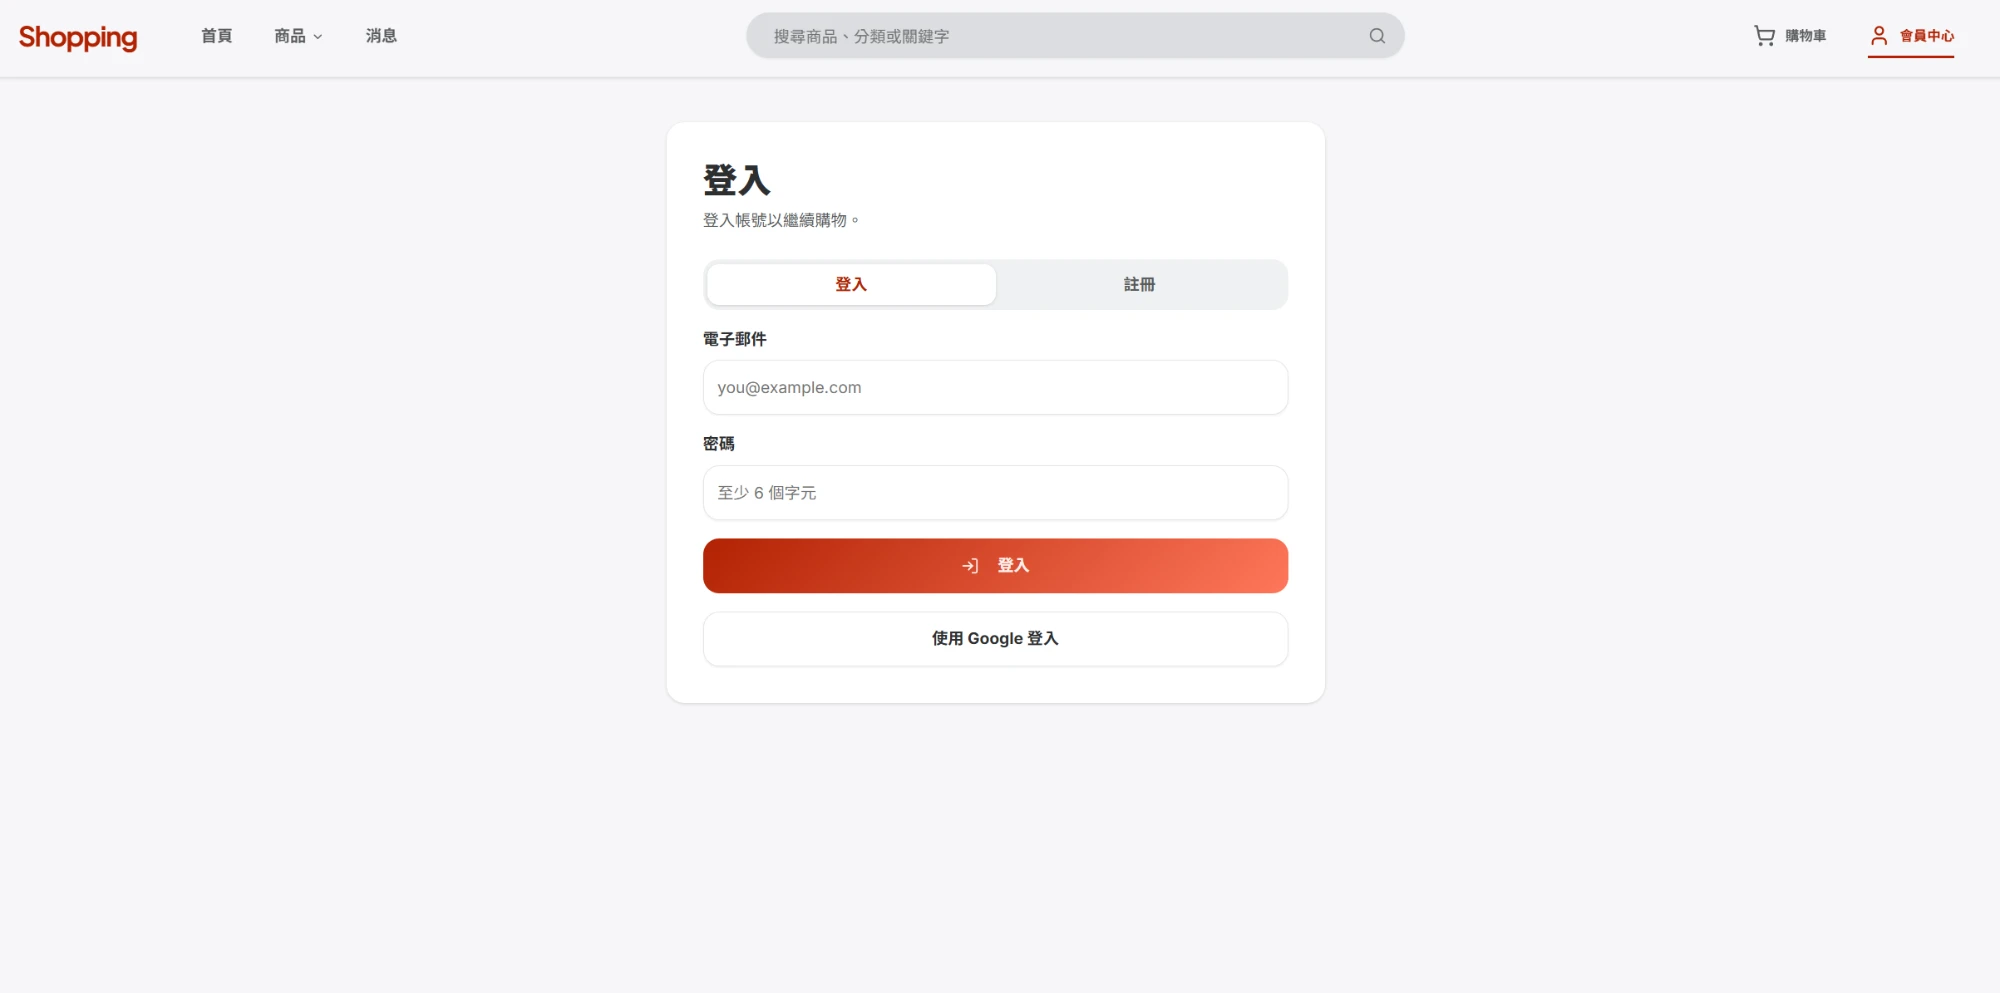
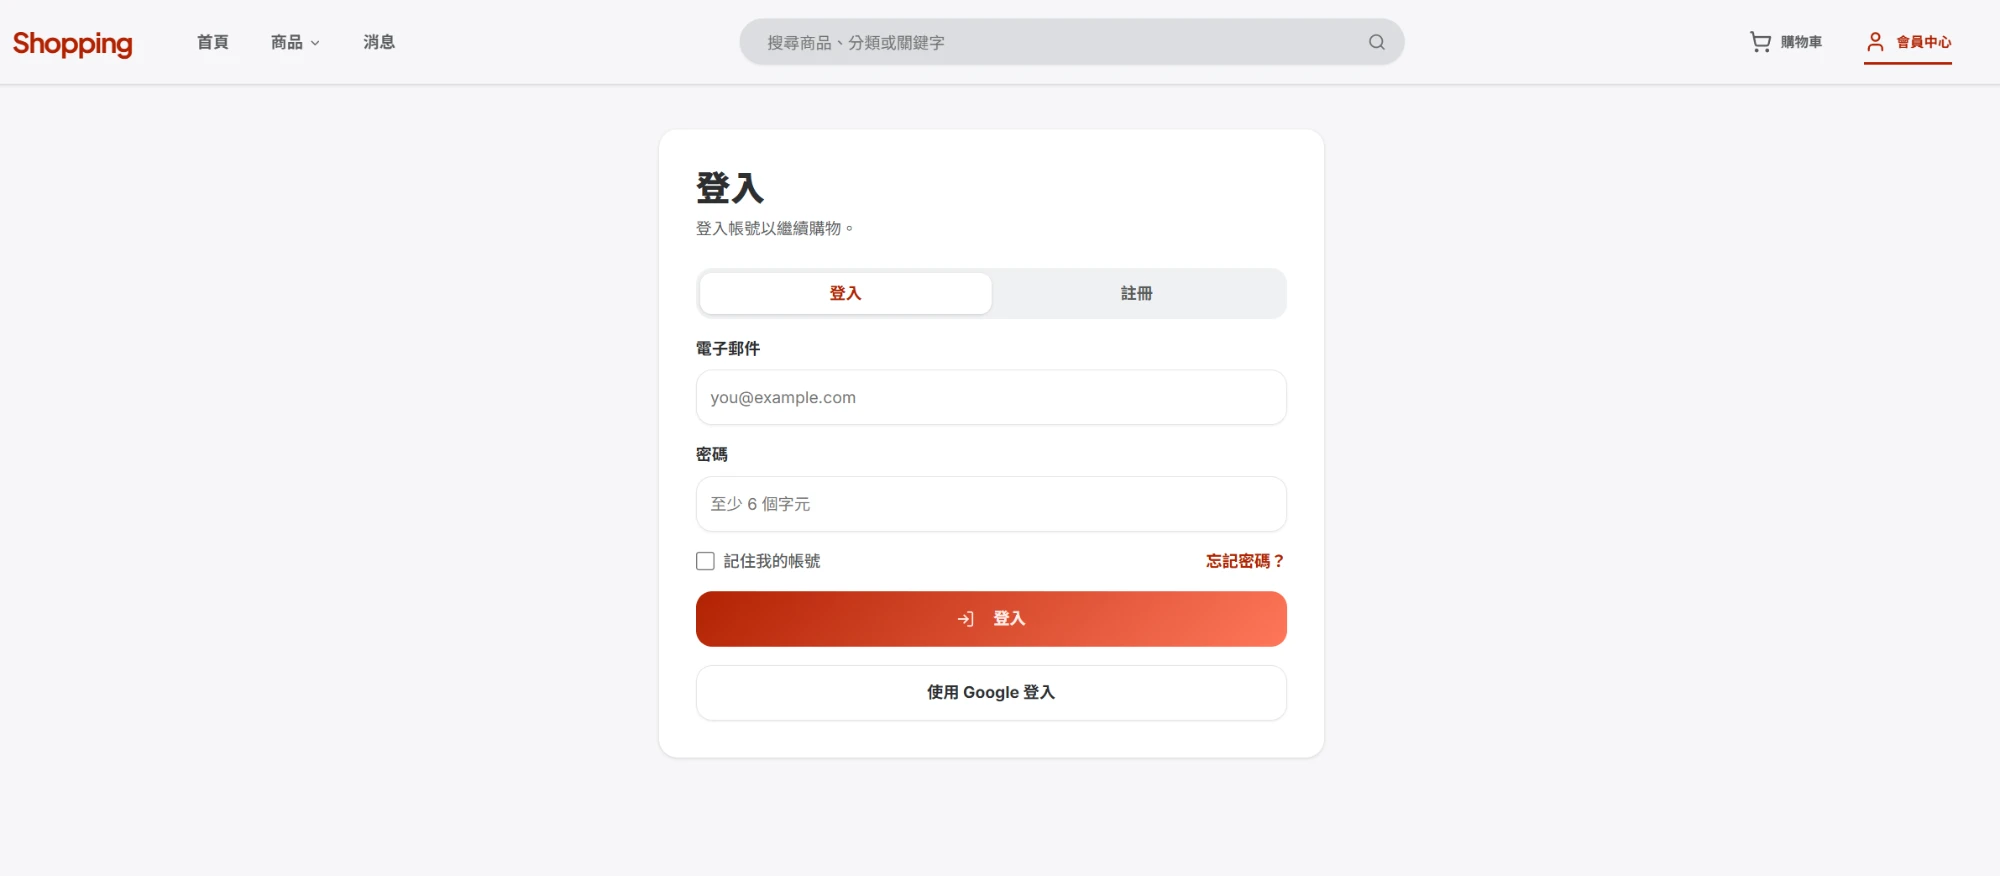
docs: README 更新登入頁截圖（含記住帳號與忘記密碼）

diff --git a/README.md b/README.md
@@ -79,7 +79,7 @@
 | ![商品列表](docs/screenshots/products.webp) | ![購物車](docs/screenshots/cart.webp) |
 | **③ 填寫收件資訊（縣市鄉鎮連動）** | **④ 綠界收銀台（信用卡、ATM、超商等）** |
 | ![填寫收件資訊](docs/screenshots/checkout-info.webp) | ![綠界收銀台](docs/screenshots/ecpay.png) |
-| **⑤ 我的訂單（出貨／鑑賞期狀態、提前確認完成）** | **⑥ 登入（Email／Google）** |
+| **⑤ 我的訂單（出貨／鑑賞期狀態、提前確認完成）** | **⑥ 登入（Email／Google、記住帳號、忘記密碼）** |
 | ![我的訂單](docs/screenshots/my-orders.webp) | ![登入](docs/screenshots/login.webp) |
 
 ### 後台管理
